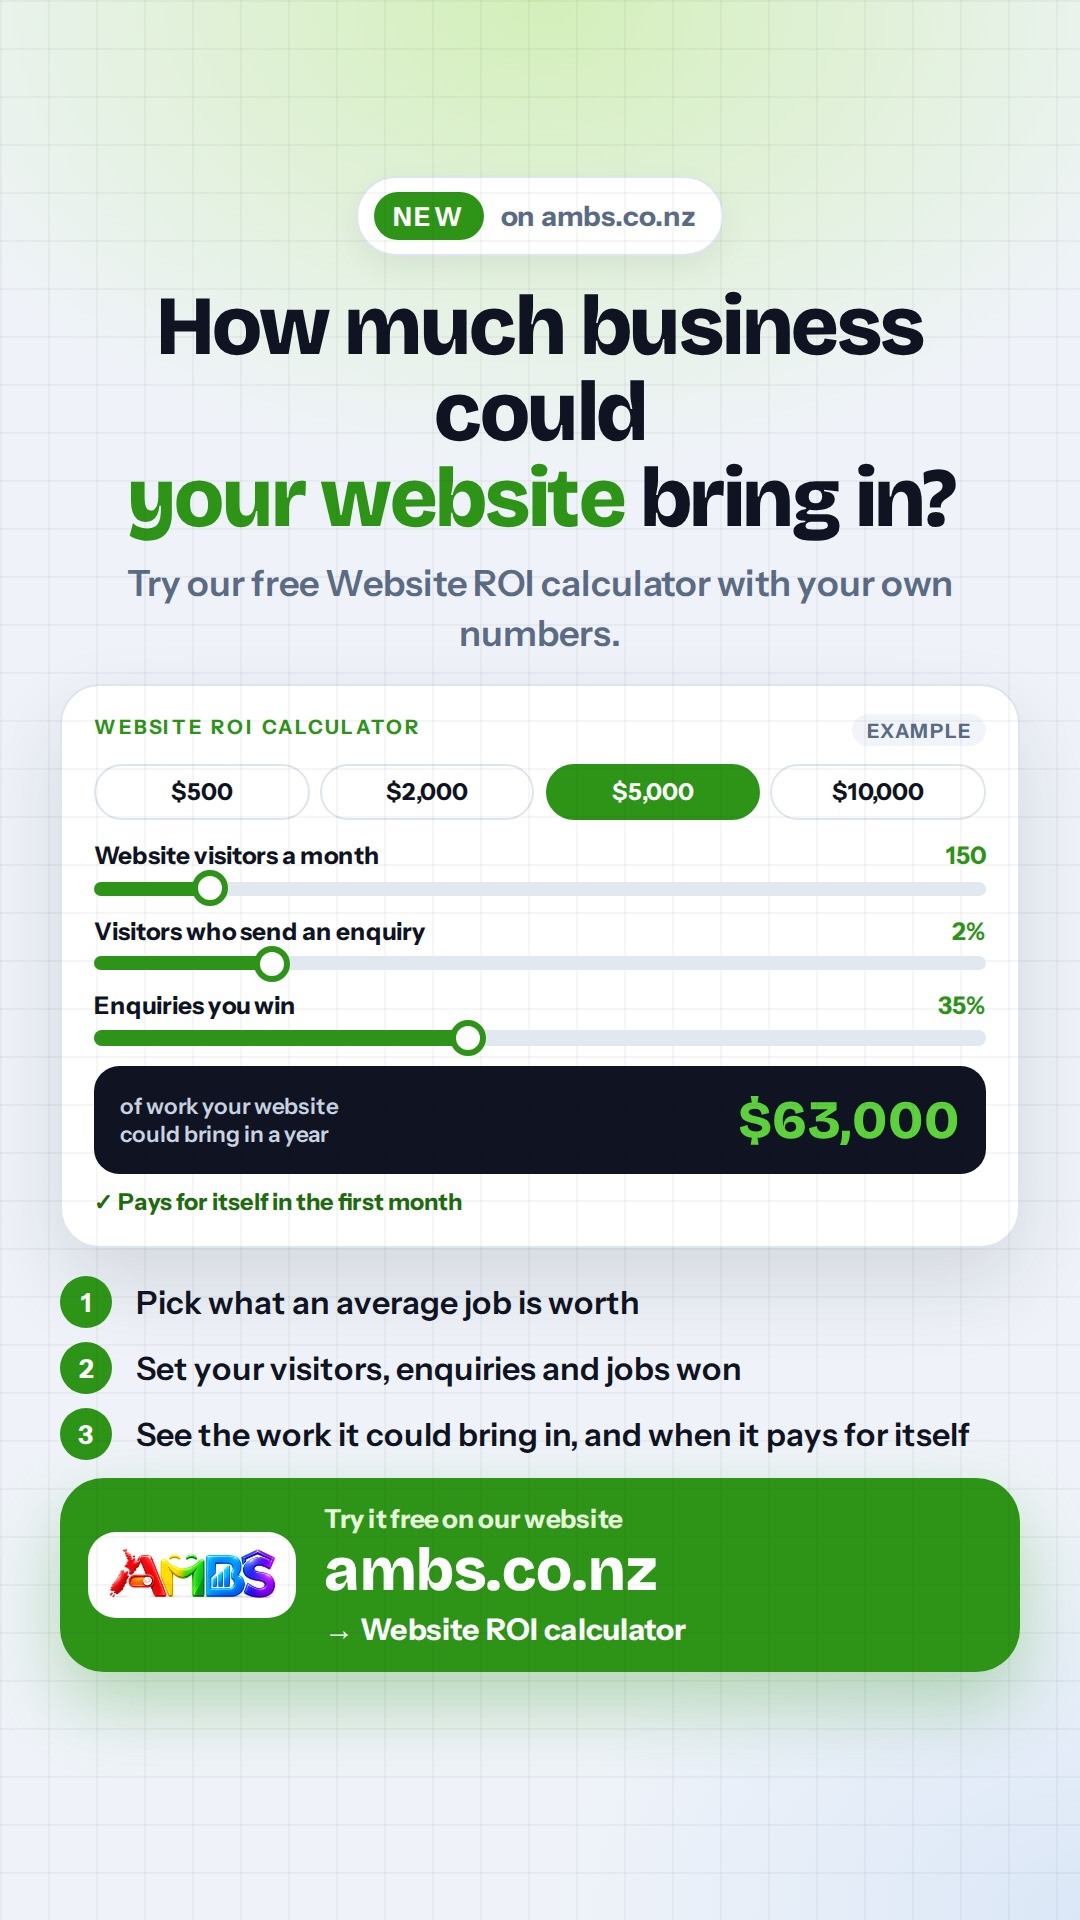
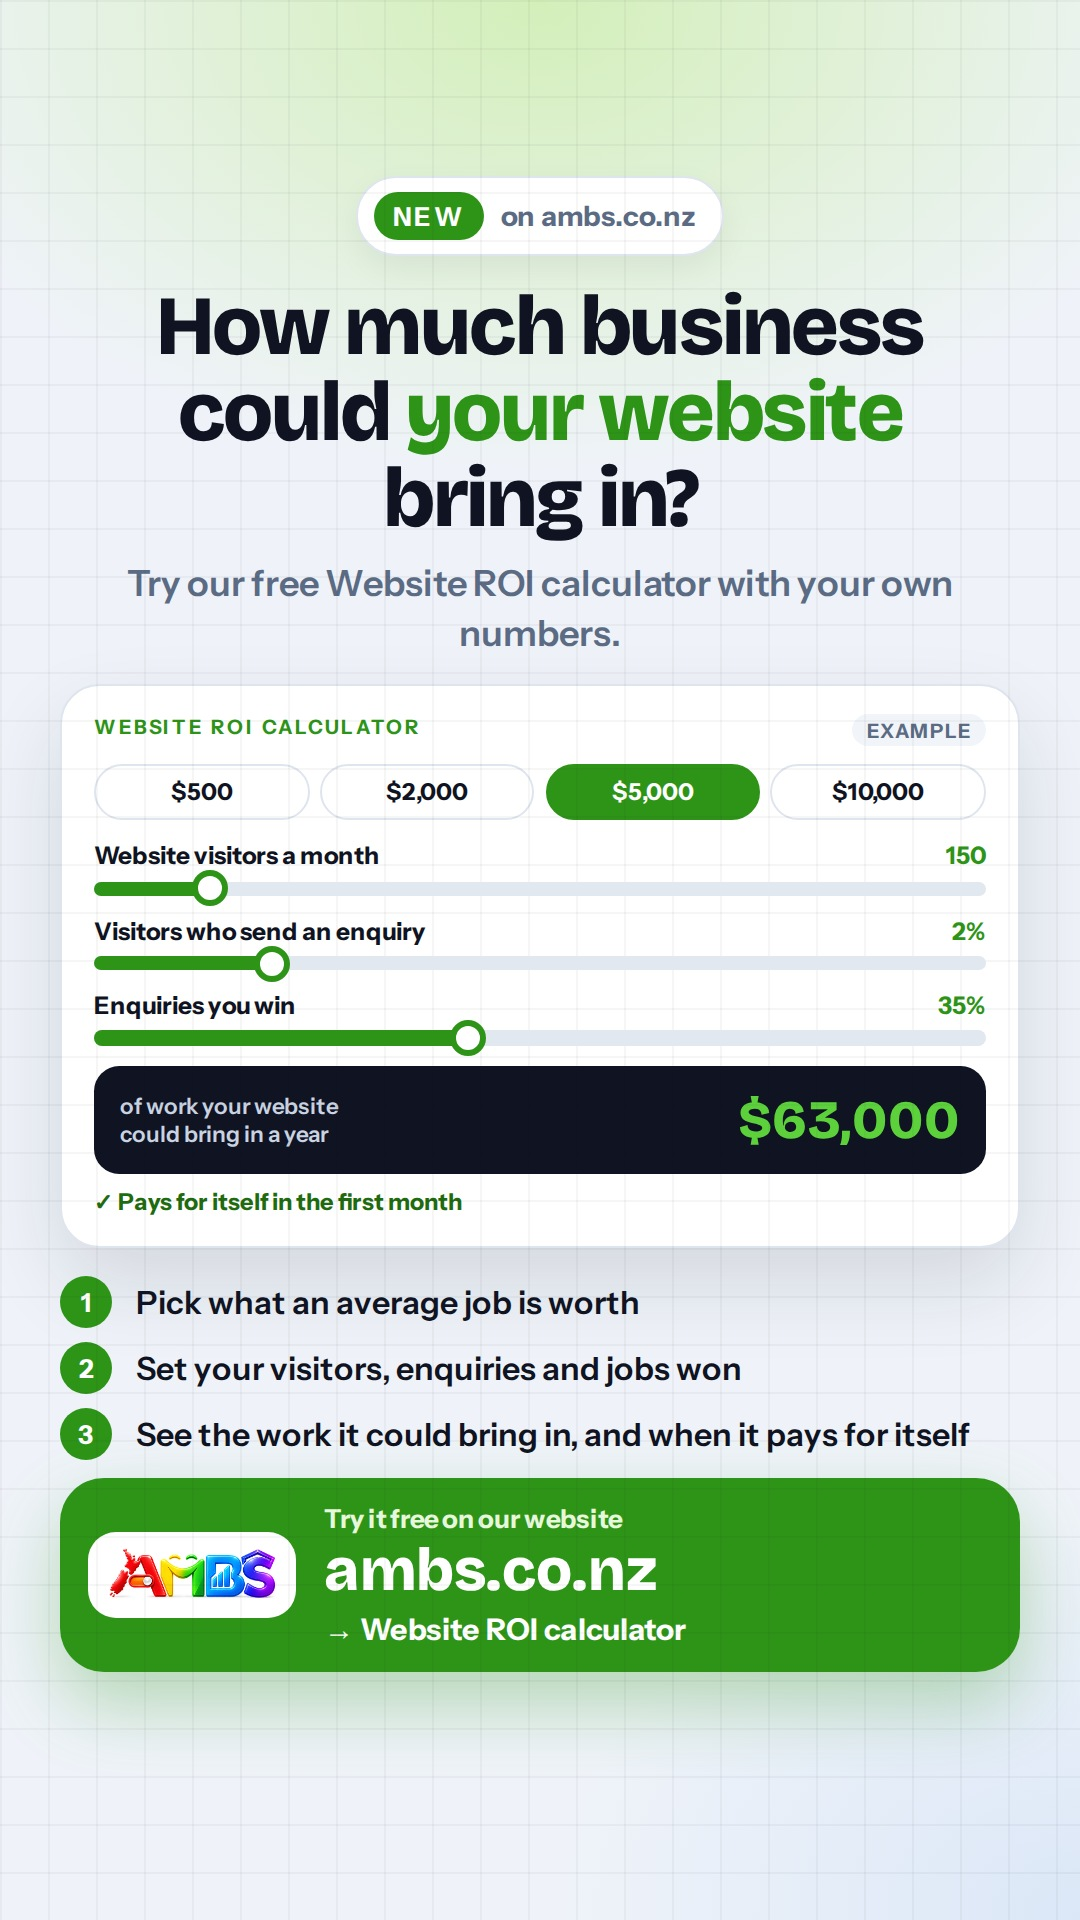
ROI story: even three-line headline
Claude-Session: https://claude.ai/code/session_01UEFq6Row7p6wmTAvf3EyaN

Changed region(s): [[0.1222, 0.1875, 0.8861, 0.2812]]

diff --git a/marketing-videos/posters/25b-new-roi-story.html b/marketing-videos/posters/25b-new-roi-story.html
@@ -12,7 +12,7 @@
 </style></head><body>
 <div id="frame">
   <div class="new"><b>NEW</b>on ambs.co.nz</div>
-  <h1 class="hd">How much business could<br><em>your website</em> bring&nbsp;in?</h1>
+  <h1 class="hd">How much business<br>could <em>your website</em><br>bring in?</h1>
   <div class="lead">Try our free Website ROI calculator with your own numbers.</div>
   <div class="calc"><div class="ey">WEBSITE ROI CALCULATOR <span>EXAMPLE</span></div>
       <div class="jobs"><i>$500</i><i>$2,000</i><i class="on">$5,000</i><i>$10,000</i></div>
